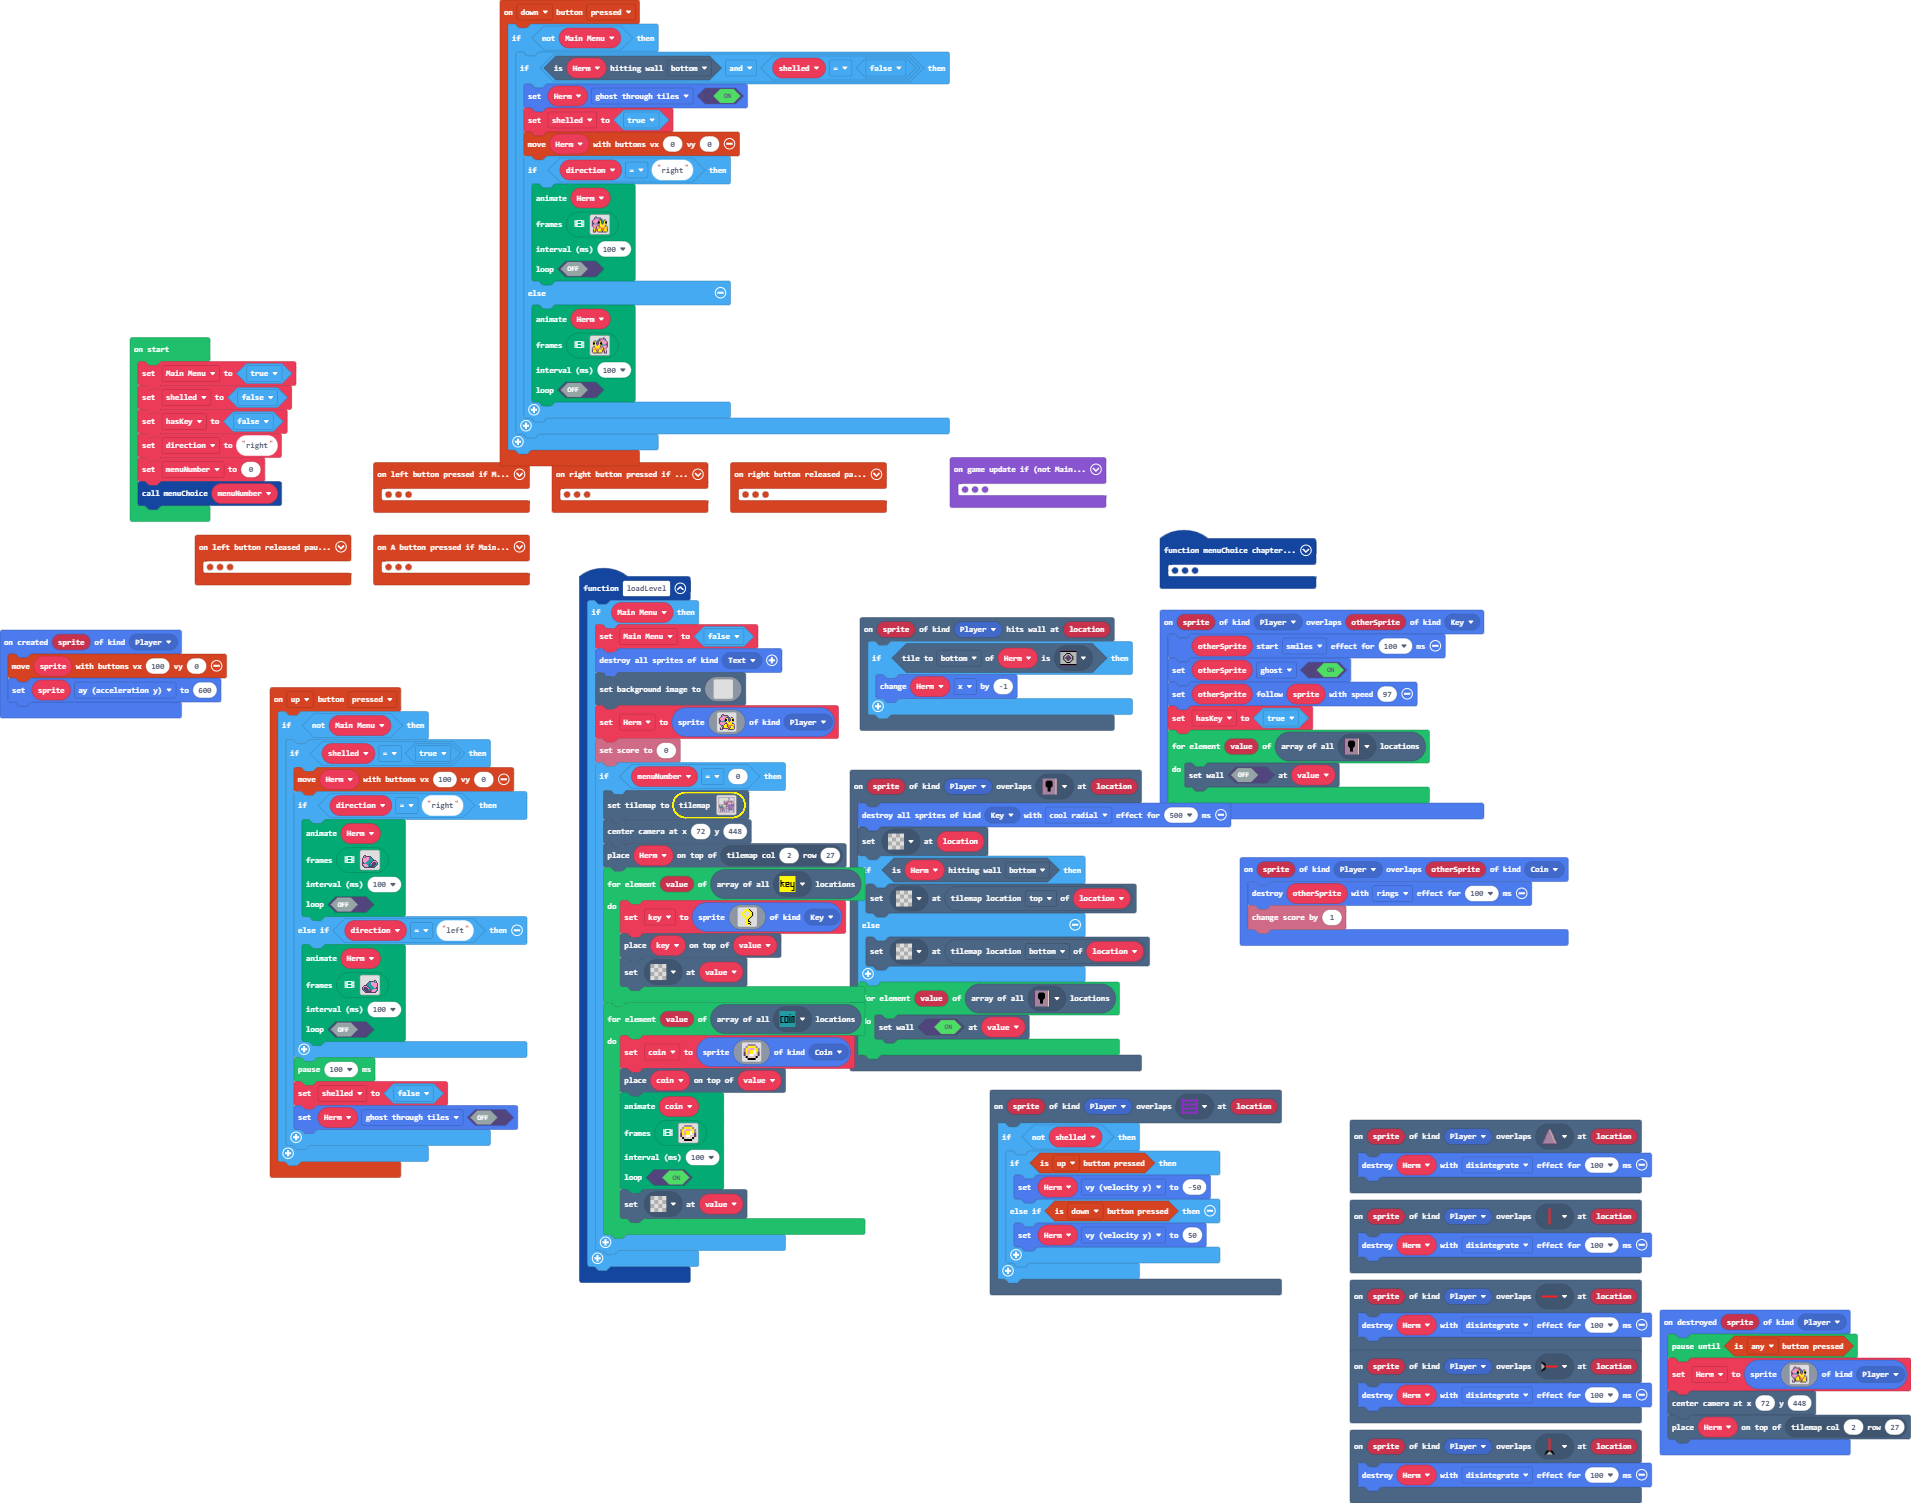
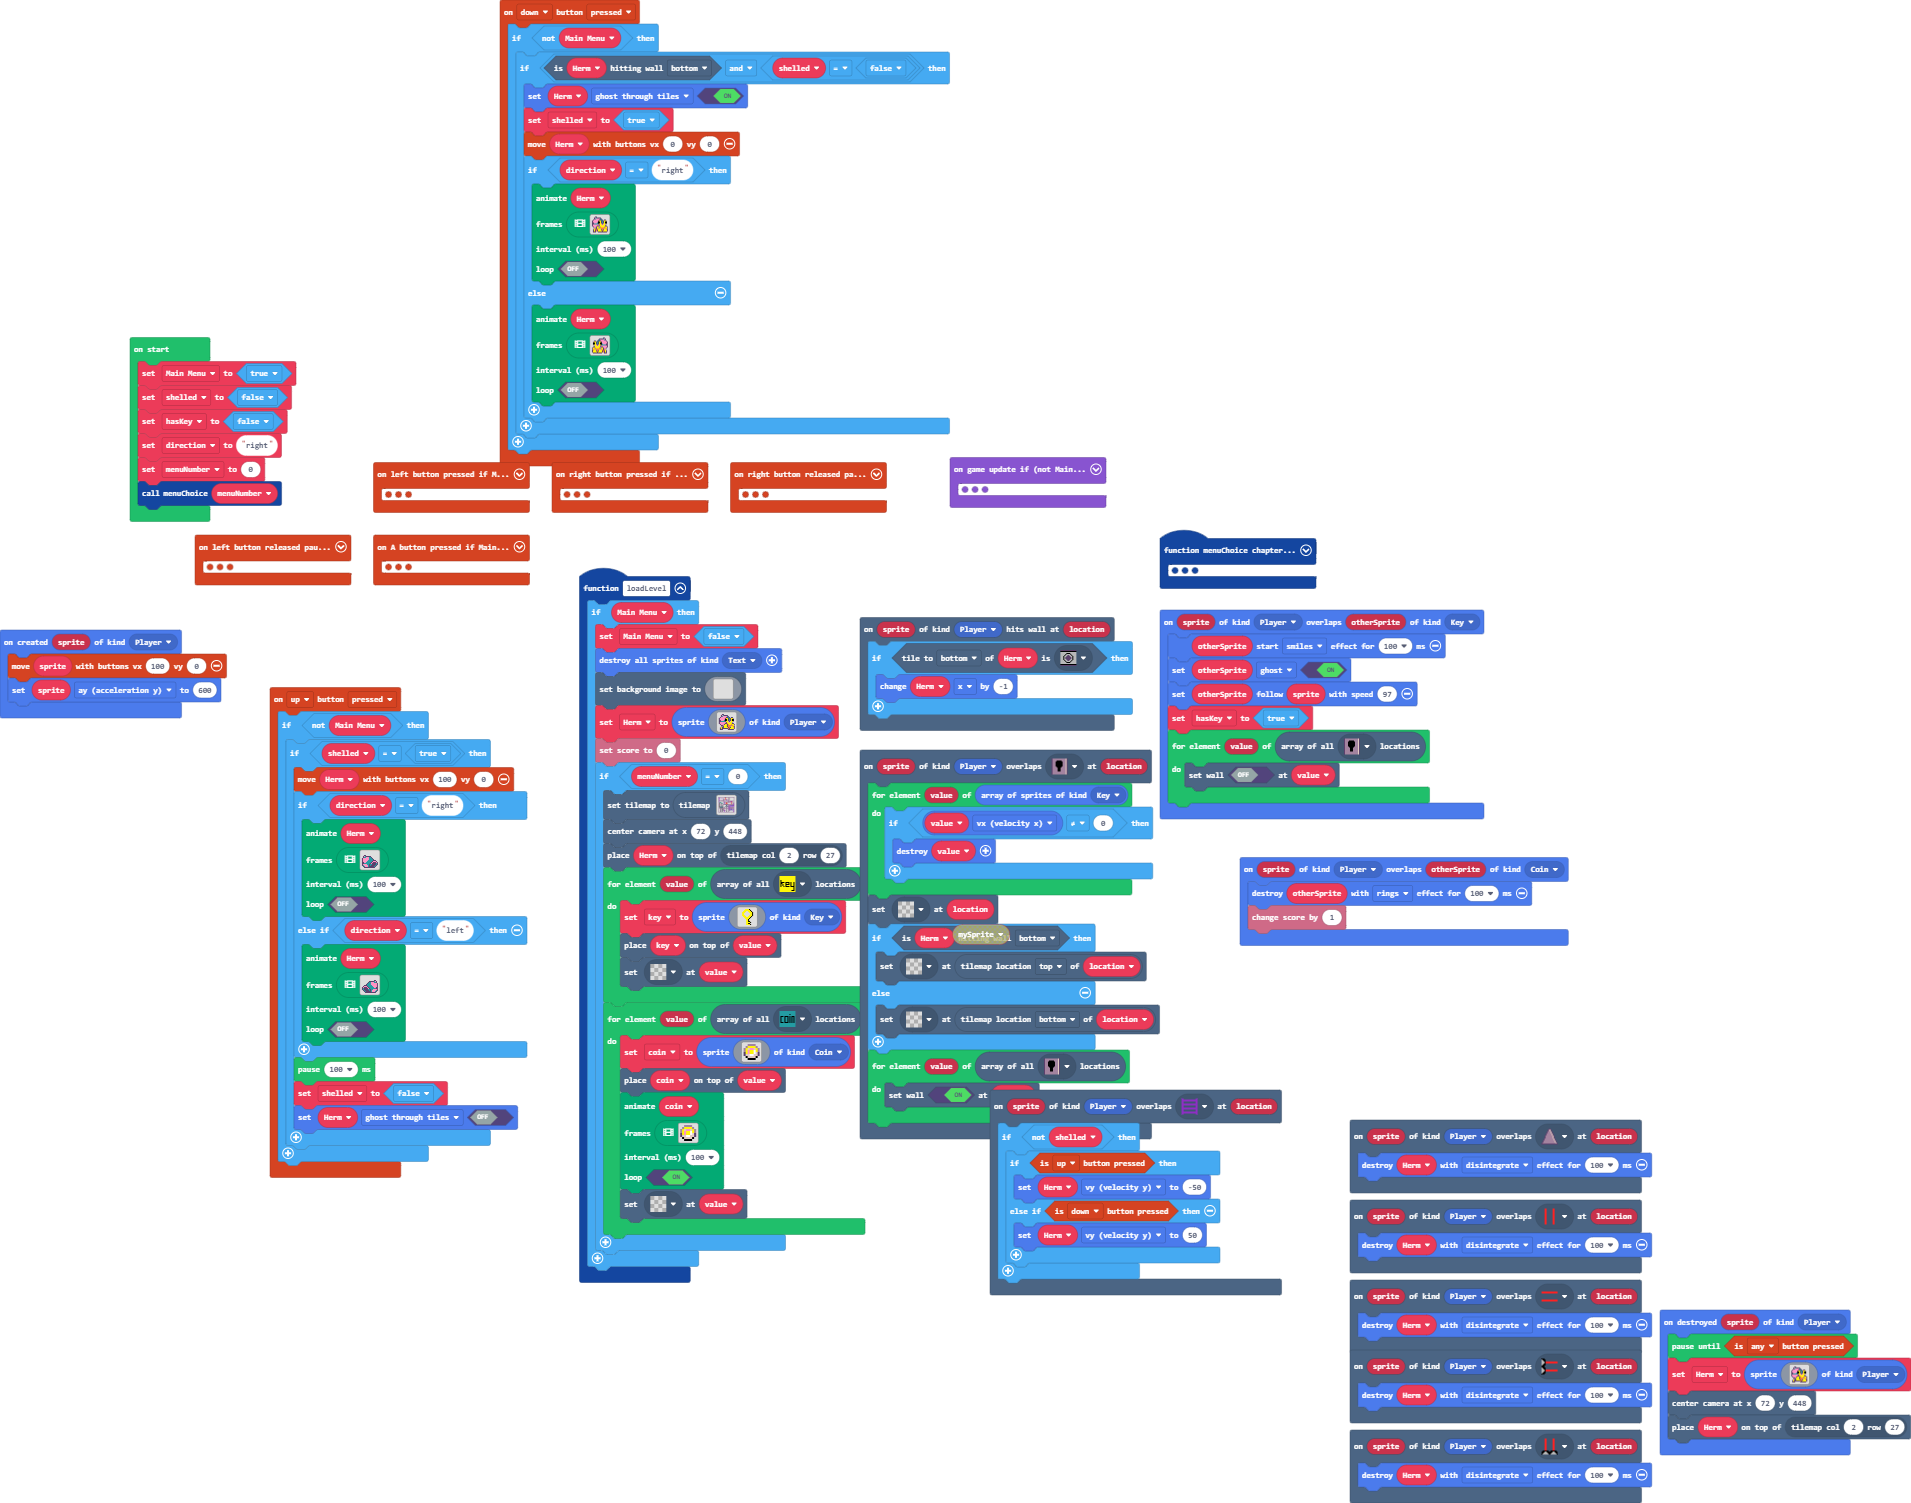
Update main.blocks, main.ts, tilemap.g.jres, tilemap.g.ts

Changed region(s): [[0.4322, 0.4897, 0.6484, 0.7651]]

diff --git a/tilemap.g.ts b/tilemap.g.ts
@@ -33,9 +33,9 @@ namespace myTiles {
     //% fixedInstance jres blockIdentity=images._tile
     export const tile15 = image.ofBuffer(hex``);
     //% fixedInstance jres blockIdentity=images._tile
-    export const tile16 = image.ofBuffer(hex``);
-    //% fixedInstance jres blockIdentity=images._tile
     export const tile17 = image.ofBuffer(hex``);
+    //% fixedInstance jres blockIdentity=images._tile
+    export const tile16 = image.ofBuffer(hex``);
 
     helpers._registerFactory("tilemap", function(name: string) {
         switch(helpers.stringTrim(name)) {
@@ -97,22 +97,22 @@ namespace myTiles {
 . . . . . . . . . . . . . . . . 
 `, [myTiles.transparency16], TileScale.Sixteen);
             case "level2":
[2 lines of base64/hex data omitted]
 222222222222222222222222222222
-2............................2
-2............................2
-2............................2
-2............................2
-2............................2
-2............................2
-2.........22222222.22222222222
+2...........2......22........2
+2..................22........2
+2........22........22........2
+2........22.....2..22........2
+2........22.22..2..2.........2
+2........22.....2..2.........2
+2.2222222222222222.22222222222
 2.........2........22........2
 2.........2.222222222.2...2..2
 2.........2........22...2...22
-2.........2................222
-2.........2..............2...2
-2.........22222222222222.22..2
-2222222222222222222222222222.2
+2.2........................222
+2....2...................2...2
+2.......2222222222222222.22..2
+2.......22222222222222222222.2
 2..................22........2
 2..................22........2
 2..................22........2
@@ -165,10 +165,10 @@ namespace myTiles {
             case "tile14":return tile14;
             case "myTile13":
             case "tile15":return tile15;
-            case "myTile14":
-            case "tile16":return tile16;
             case "myTile15":
             case "tile17":return tile17;
+            case "myTile14":
+            case "tile16":return tile16;
         }
         return null;
     })

diff --git a/main.ts b/main.ts
@@ -757,7 +757,11 @@ sprites.onOverlap(SpriteKind.Player, SpriteKind.Key, function (sprite, otherSpri
     }
 })
 scene.onOverlapTile(SpriteKind.Player, assets.tile`myTile8`, function (sprite, location) {
-    sprites.destroyAllSpritesOfKind(SpriteKind.Key, effects.coolRadial, 500)
+    for (let value of sprites.allOfKind(SpriteKind.Key)) {
+        if (value.vx != 0) {
+            sprites.destroy(value)
+        }
+    }
     tiles.setTileAt(location, assets.tile`transparency16`)
     if (Herm.isHittingTile(CollisionDirection.Bottom)) {
         tiles.setTileAt(location.getNeighboringLocation(CollisionDirection.Top), assets.tile`transparency16`)
